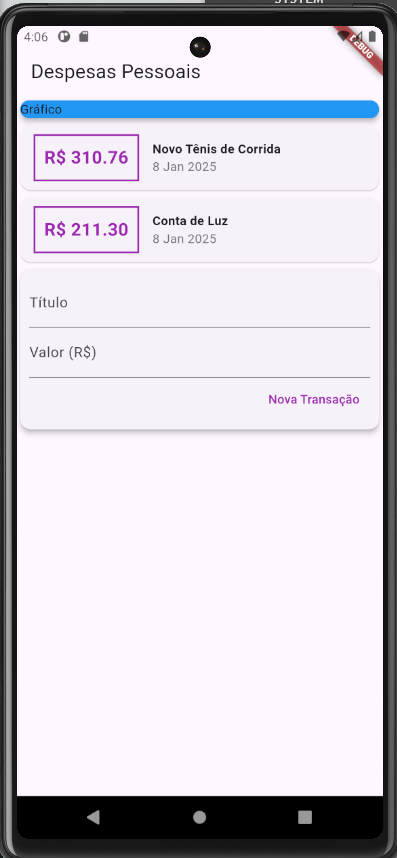
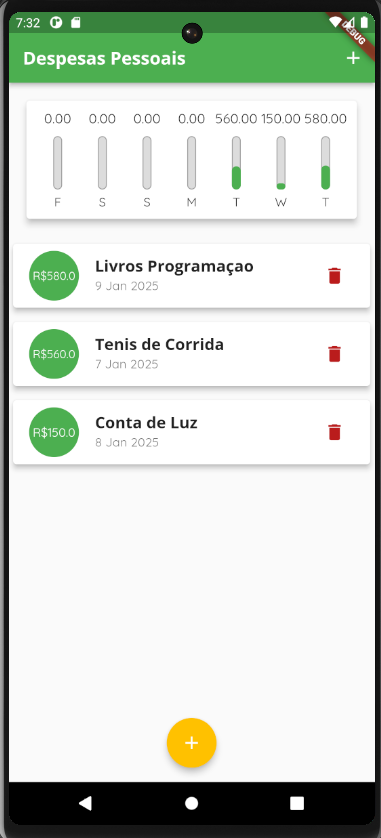
feat: add delete function

Changed region(s): [[0.0, 0.0, 1.0, 1.0]]

diff --git a/lib/components/transaction_list.dart b/lib/components/transaction_list.dart
@@ -4,13 +4,14 @@ import 'package:intl/intl.dart';
 
 class TransactionList extends StatelessWidget {
   final List<Transaction> transactions;
+  final void Function(String) onRemove;
 
-  const TransactionList(this.transactions, {super.key});
+  const TransactionList(this.transactions, this.onRemove, {super.key});
 
   @override
   Widget build(BuildContext context) {
     return Container(
-      height: 300,
+      height: 400,
       child: transactions.isEmpty
           ? Column(
               children: [
@@ -35,34 +36,33 @@ class TransactionList extends StatelessWidget {
               itemBuilder: (ctx, index) {
                 final tr = transactions[index];
                 return Card(
-                  child: Row(
-                    children: [
-                      Container(
-                          margin: EdgeInsets.symmetric(
-                              horizontal: 15, vertical: 10),
-                          decoration: BoxDecoration(
-                              border: Border.all(
-                                  color: Theme.of(context).colorScheme.primary,
-                                  width: 2)),
-                          padding: EdgeInsets.all(10),
-                          child: Text('R\$ ${tr.value.toStringAsFixed(2)}',
-                              style: TextStyle(
-                                  fontWeight: FontWeight.bold,
-                                  fontSize: 20,
-                                  color:
-                                      Theme.of(context).colorScheme.primary))),
-                      Column(
-                        crossAxisAlignment: CrossAxisAlignment.start,
-                        children: [
-                          Text(tr.title,
-                              style: Theme.of(context).textTheme.titleLarge),
-                          Text(
-                            DateFormat('d MMM y').format(tr.date),
-                            style: TextStyle(color: Colors.grey[600]),
-                          )
-                        ],
-                      )
-                    ],
+                  elevation: 5,
+                  margin: EdgeInsets.symmetric(
+                    vertical: 8,
+                    horizontal: 5,
+                  ),
+                  child: ListTile(
+                    leading: CircleAvatar(
+                      backgroundColor: Theme.of(context).colorScheme.primary,
+                      foregroundColor: Colors.white,
+                      radius: 30,
+                      child: Padding(
+                        padding: const EdgeInsets.all(6),
+                        child: FittedBox(
+                          child: Text('R\$${tr.value}'),
+                        ),
+                      ),
+                    ),
+                    title: Text(
+                      tr.title,
+                      style: Theme.of(context).textTheme.titleLarge,
+                    ),
+                    subtitle: Text(DateFormat('d MMM y').format(tr.date)),
+                    trailing: IconButton(
+                      onPressed: () => onRemove(tr.id),
+                      icon: Icon(Icons.delete),
+                      color: Theme.of(context).colorScheme.error,
+                    ),
                   ),
                 );
               },

diff --git a/lib/main.dart b/lib/main.dart
@@ -1,5 +1,6 @@
 import 'dart:math';
 
+import 'package:expenses/components/chart.dart';
 import 'package:expenses/components/transaction_form.dart';
 import 'package:expenses/components/transaction_list.dart';
 import 'package:expenses/models/transaction.dart';
@@ -18,21 +19,24 @@ class ExpensesApp extends StatelessWidget {
         useMaterial3: false,
         fontFamily: 'Quicksand',
         textTheme: TextTheme(
-            titleLarge: TextStyle(
-                fontFamily: 'OpenSans',
-                fontSize: 18,
-                fontWeight: FontWeight.bold)),
+          titleLarge: TextStyle(
+              fontFamily: 'OpenSans',
+              fontSize: 18,
+              fontWeight: FontWeight.bold),
+          labelLarge:
+              TextStyle(color: Colors.white, fontWeight: FontWeight.bold),
+        ),
         appBarTheme: AppBarTheme(
           titleTextStyle: TextStyle(
               fontFamily: 'OpenSans',
               fontSize: 20,
               fontWeight: FontWeight.bold),
-          backgroundColor: Colors.purple,
+          backgroundColor: Colors.green,
           foregroundColor: Colors.white,
         ),
         colorScheme: ColorScheme.fromSeed(
           seedColor: Colors.amber,
-          primary: Colors.purple,
+          primary: Colors.green,
           secondary: Colors.amber,
         ),
       ),
@@ -48,15 +52,13 @@ class MyHomePage extends StatefulWidget {
 }
 
 class _MyHomePageState extends State<MyHomePage> {
-  final List<Transaction> _transactions = [
-    // Transaction(
-    //     id: 't1',
-    //     title: 'Novo Tênis de Corrida',
-    //     value: 310.76,
-    //     date: DateTime.now()),
-    // Transaction(
-    //     id: 't2', title: 'Conta de Luz', value: 211.30, date: DateTime.now()),
-  ];
+  final List<Transaction> _transactions = [];
+
+  List<Transaction> get _recentTransaction {
+    return _transactions.where((tr) {
+      return tr.date.isAfter(DateTime.now().subtract(Duration(days: 7)));
+    }).toList();
+  }
 
   _openTransactionFormModal(BuildContext context) {
     showModalBottomSheet(
@@ -66,18 +68,24 @@ class _MyHomePageState extends State<MyHomePage> {
         });
   }
 
-  _addTransaction(String title, double value) {
+  _addTransaction(String title, double value, DateTime date) {
     final newTransaction = Transaction(
         id: Random().nextDouble().toString(),
         title: title,
         value: value,
-        date: DateTime.now());
+        date: date);
 
     setState(() {
       _transactions.add(newTransaction);
     });
 
     Navigator.of(context).pop();
+  }
+
+  _removeTransaction(String id) {
+    setState(() {
+      _transactions.removeWhere((tr) => tr.id == id);
+    });
   }
 
   @override
@@ -95,12 +103,8 @@ class _MyHomePageState extends State<MyHomePage> {
         child: Column(
           crossAxisAlignment: CrossAxisAlignment.stretch,
           children: <Widget>[
-            Card(
-              color: Theme.of(context).colorScheme.primary,
-              elevation: 5,
-              child: Text('Gráfico'),
-            ),
-            TransactionList(_transactions),
+            Chart(_recentTransaction),
+            TransactionList(_transactions, _removeTransaction),
           ],
         ),
       ),

diff --git a/lib/components/transaction_form.dart b/lib/components/transaction_form.dart
@@ -1,7 +1,8 @@
 import 'package:flutter/material.dart';
+import 'package:intl/intl.dart';
 
 class TransactionForm extends StatefulWidget {
-  final void Function(String, double) onSubmit;
+  final void Function(String, double, DateTime) onSubmit;
 
   const TransactionForm(this.onSubmit, {super.key});
 
@@ -10,17 +11,32 @@ class TransactionForm extends StatefulWidget {
 }
 
 class _TransactionFormState extends State<TransactionForm> {
-  final titleController = TextEditingController();
+  final _titleController = TextEditingController();
+  final _valueController = TextEditingController();
 
-  final valueController = TextEditingController();
+  DateTime _selectedDate = DateTime.now();
 
   _submitForm() {
-    final title = titleController.text;
-    final value = double.tryParse(valueController.text) ?? 0.0;
+    final title = _titleController.text;
+    final value = double.tryParse(_valueController.text) ?? 0.0;
 
     if (title.isEmpty || value <= 0) return;
 
-    widget.onSubmit(title, value);
+    widget.onSubmit(title, value, _selectedDate);
+  }
+
+  _showDatePicker() {
+    showDatePicker(
+            context: context,
+            firstDate: DateTime(2024),
+            lastDate: DateTime.now())
+        .then((pickedDate) {
+      if (pickedDate == null) return;
+
+      setState(() {
+        _selectedDate = pickedDate;
+      });
+    });
   }
 
   @override
@@ -32,22 +48,40 @@ class _TransactionFormState extends State<TransactionForm> {
         child: Column(children: [
           TextField(
             decoration: InputDecoration(labelText: 'Título'),
-            controller: titleController,
+            controller: _titleController,
             onSubmitted: (_) => _submitForm(),
           ),
           TextField(
             decoration: InputDecoration(labelText: 'Valor (R\$)'),
-            controller: valueController,
+            controller: _valueController,
             keyboardType: TextInputType.numberWithOptions(decimal: true),
             onSubmitted: (_) => _submitForm(),
+          ),
+          Container(
+            height: 70,
+            child: Row(
+              children: [
+                Expanded(
+                  child: Text(
+                      'Data selecionada: ${DateFormat('dd/MM/y').format(_selectedDate)}'),
+                ),
+                TextButton(
+                  onPressed: _showDatePicker,
+                  child: Text(
+                    'Selecionar Data',
+                    style: TextStyle(
+                        color: Theme.of(context).colorScheme.primary,
+                        fontWeight: FontWeight.bold),
+                  ),
+                )
+              ],
+            ),
           ),
           Row(
             mainAxisAlignment: MainAxisAlignment.end,
             children: [
-              TextButton(
+              ElevatedButton(
                 onPressed: _submitForm,
-                style: TextButton.styleFrom(
-                    foregroundColor: Theme.of(context).colorScheme.primary),
                 child: Text('Nova Transação'),
               ),
             ],

diff --git a/lib/components/chart.dart b/lib/components/chart.dart
@@ -1,0 +1,64 @@
+import 'package:expenses/components/chart_bar.dart';
+import 'package:expenses/models/transaction.dart';
+import 'package:flutter/material.dart';
+import 'package:intl/intl.dart';
+
+class Chart extends StatelessWidget {
+  final List<Transaction> recentTransaction;
+
+  const Chart(this.recentTransaction, {super.key});
+
+  List<Map<String, Object>> get groupedTransactions {
+    return List.generate(7, (index) {
+      final weekDay = DateTime.now().subtract(
+        Duration(days: index),
+      );
+
+      double totalSum = 0.0;
+
+      for (var i = 0; i < recentTransaction.length; i++) {
+        bool sameDay = recentTransaction[i].date.day == weekDay.day;
+        bool sameMonth = recentTransaction[i].date.month == weekDay.month;
+        bool sameYear = recentTransaction[i].date.year == weekDay.year;
+
+        if (sameDay && sameMonth && sameYear) {
+          totalSum += recentTransaction[i].value;
+        }
+      }
+
+      return {'day': DateFormat.E().format(weekDay)[0], 'value': totalSum};
+    }).reversed.toList();
+  }
+
+  double get _weekTotalValue {
+    return groupedTransactions.fold(0.0, (sum, tr) {
+      return sum + double.parse(tr['value'].toString());
+    });
+  }
+
+  @override
+  Widget build(BuildContext context) {
+    return Card(
+      elevation: 6,
+      margin: EdgeInsets.all(20),
+      child: Padding(
+        padding: const EdgeInsets.all(10),
+        child: Row(
+          mainAxisAlignment: MainAxisAlignment.spaceAround,
+          children: groupedTransactions.map((tr) {
+            final double value = double.parse(tr['value'].toString());
+
+            return Flexible(
+              fit: FlexFit.tight,
+              child: ChartBar(
+                  label: tr['day'].toString(),
+                  value: value,
+                  percentage:
+                      _weekTotalValue == 0 ? 0 : value / _weekTotalValue),
+            );
+          }).toList(),
+        ),
+      ),
+    );
+  }
+}

diff --git a/lib/components/chart_bar.dart b/lib/components/chart_bar.dart
@@ -1,0 +1,57 @@
+import 'package:flutter/material.dart';
+
+class ChartBar extends StatelessWidget {
+  final String label;
+  final double value;
+  final double percentage;
+
+  ChartBar(
+      {required this.label,
+      required this.value,
+      required this.percentage,
+      super.key});
+
+  @override
+  Widget build(BuildContext context) {
+    return Column(
+      children: [
+        Container(
+            height: 20,
+            child: FittedBox(child: Text(value.toStringAsFixed(2)))),
+        SizedBox(
+          height: 5,
+        ),
+        SizedBox(
+          height: 5,
+        ),
+        Container(
+          height: 60,
+          width: 10,
+          child: Stack(
+            alignment: Alignment.bottomCenter,
+            children: [
+              Container(
+                decoration: BoxDecoration(
+                    border: Border.all(color: Colors.grey, width: 1.0),
+                    color: Color.fromRGBO(220, 220, 220, 1),
+                    borderRadius: BorderRadius.circular(5)),
+              ),
+              FractionallySizedBox(
+                heightFactor: percentage,
+                child: Container(
+                  decoration: BoxDecoration(
+                      color: Theme.of(context).colorScheme.primary,
+                      borderRadius: BorderRadius.circular(5)),
+                ),
+              ),
+            ],
+          ),
+        ),
+        SizedBox(
+          height: 5,
+        ),
+        Text(label)
+      ],
+    );
+  }
+}
